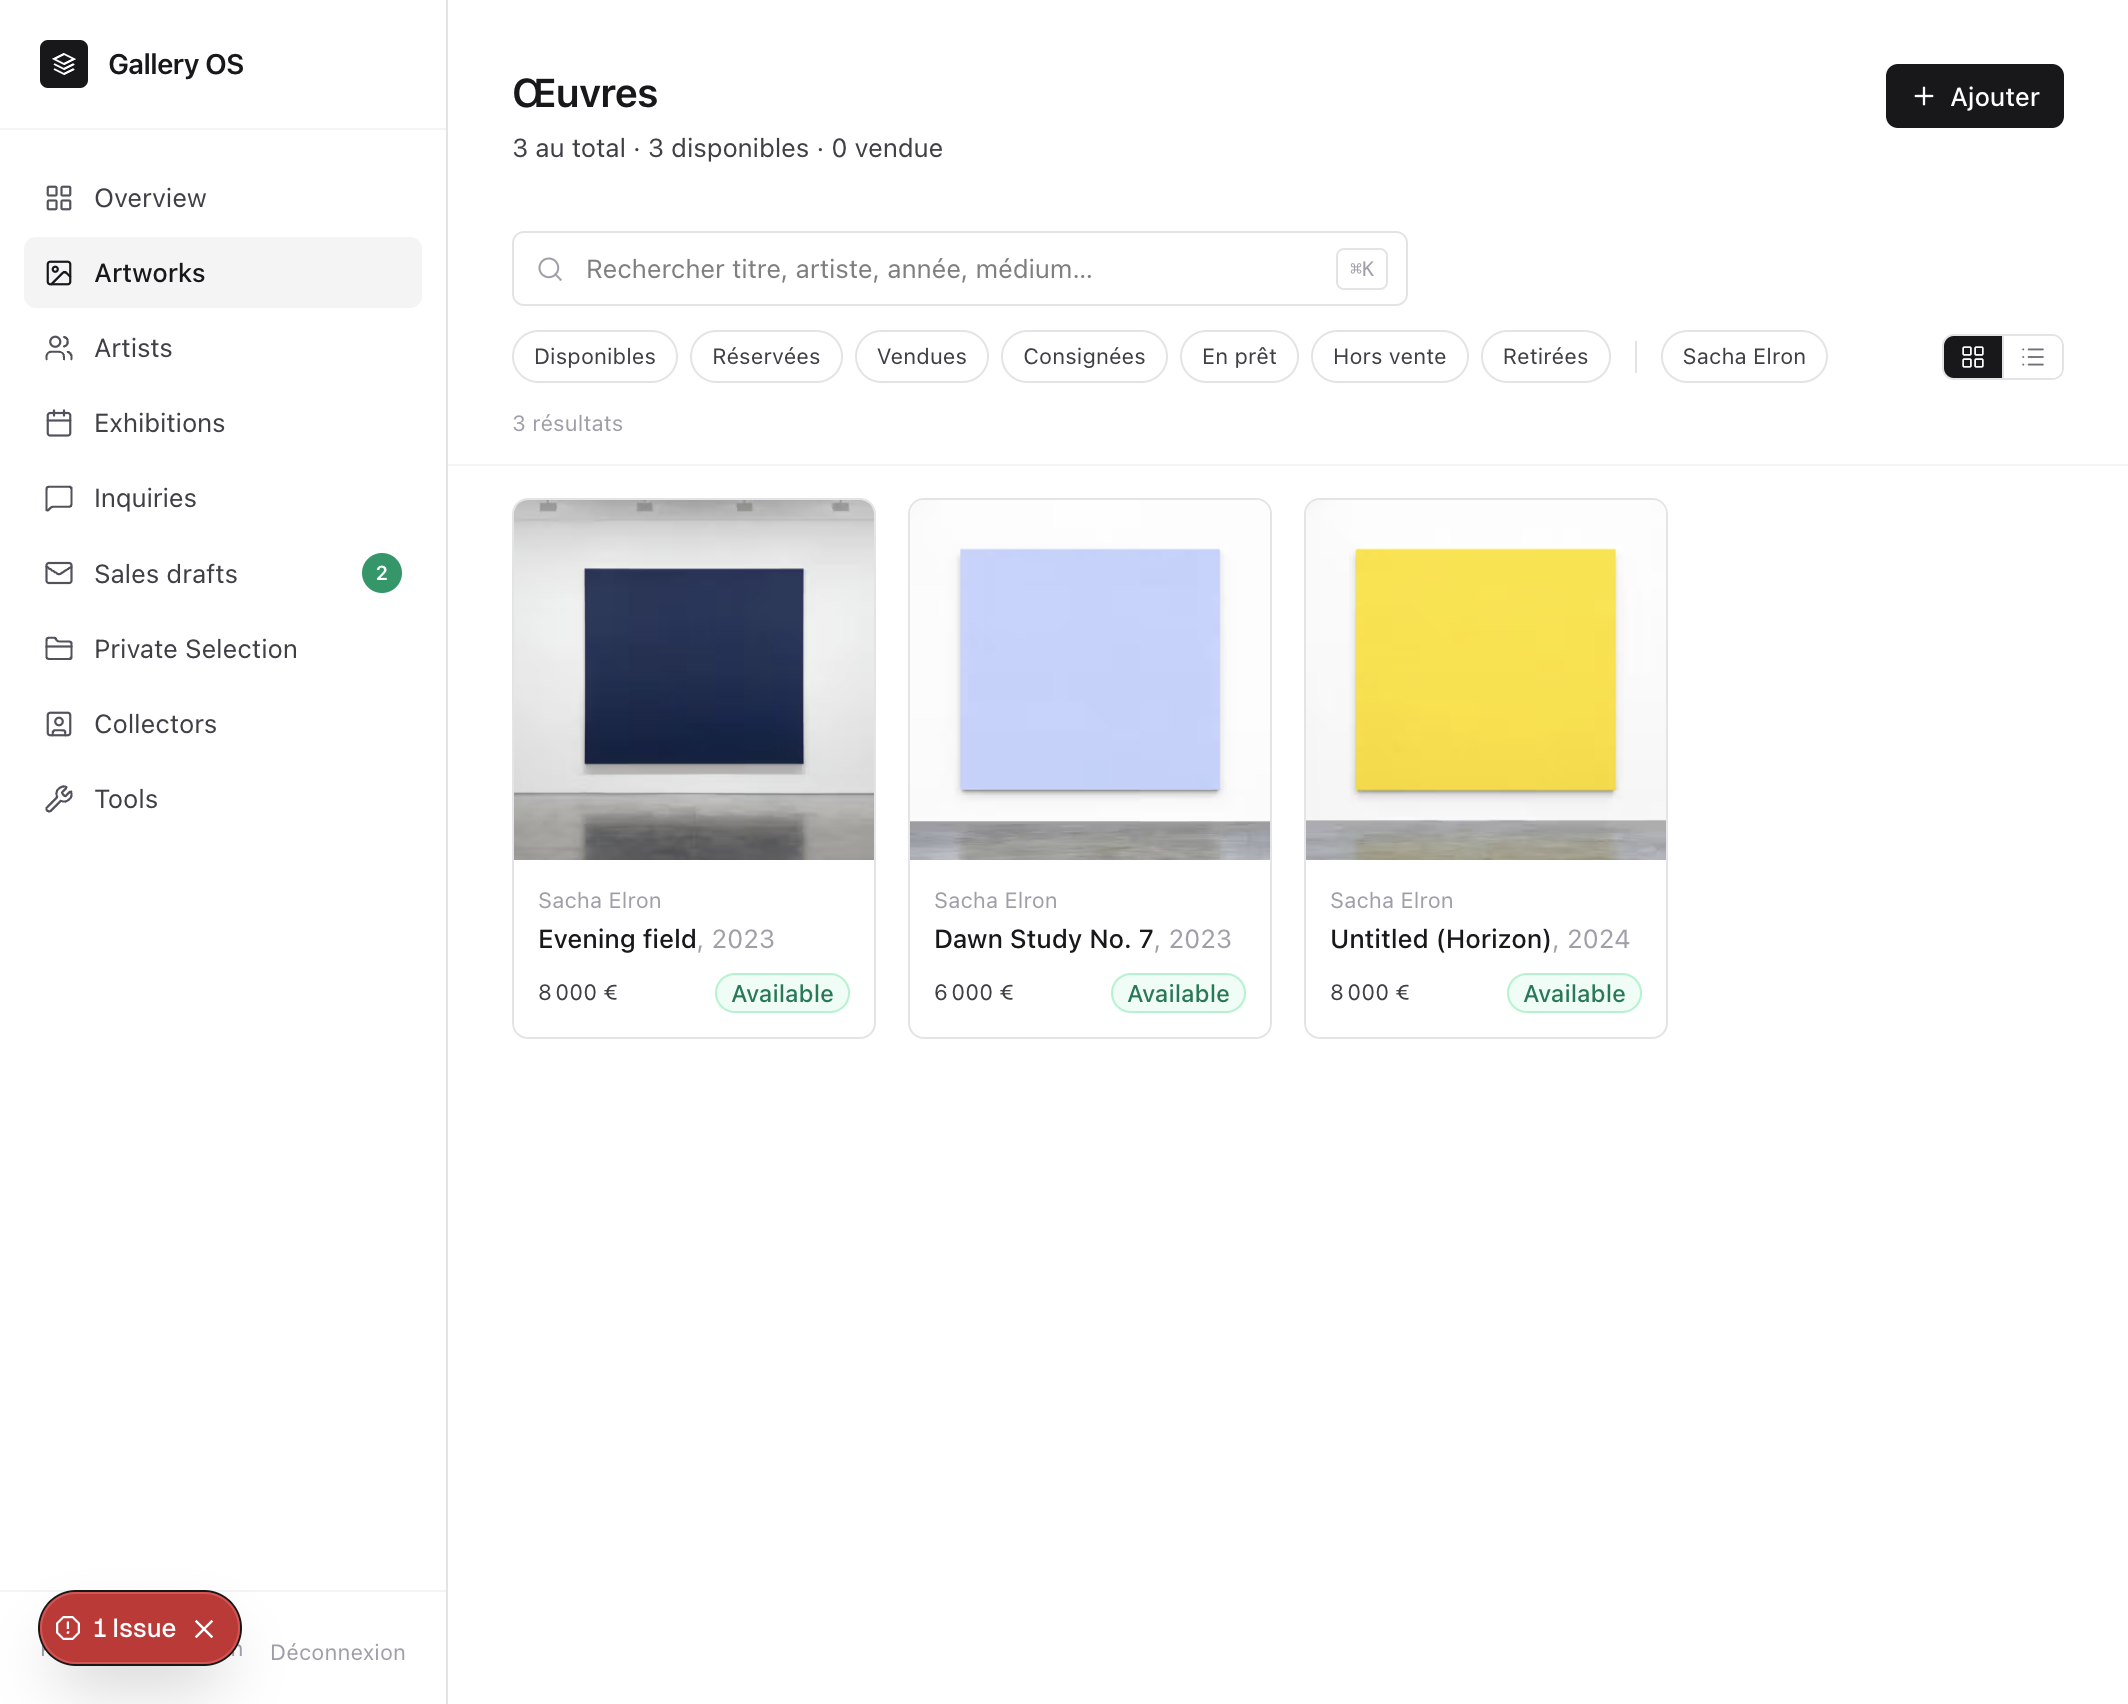
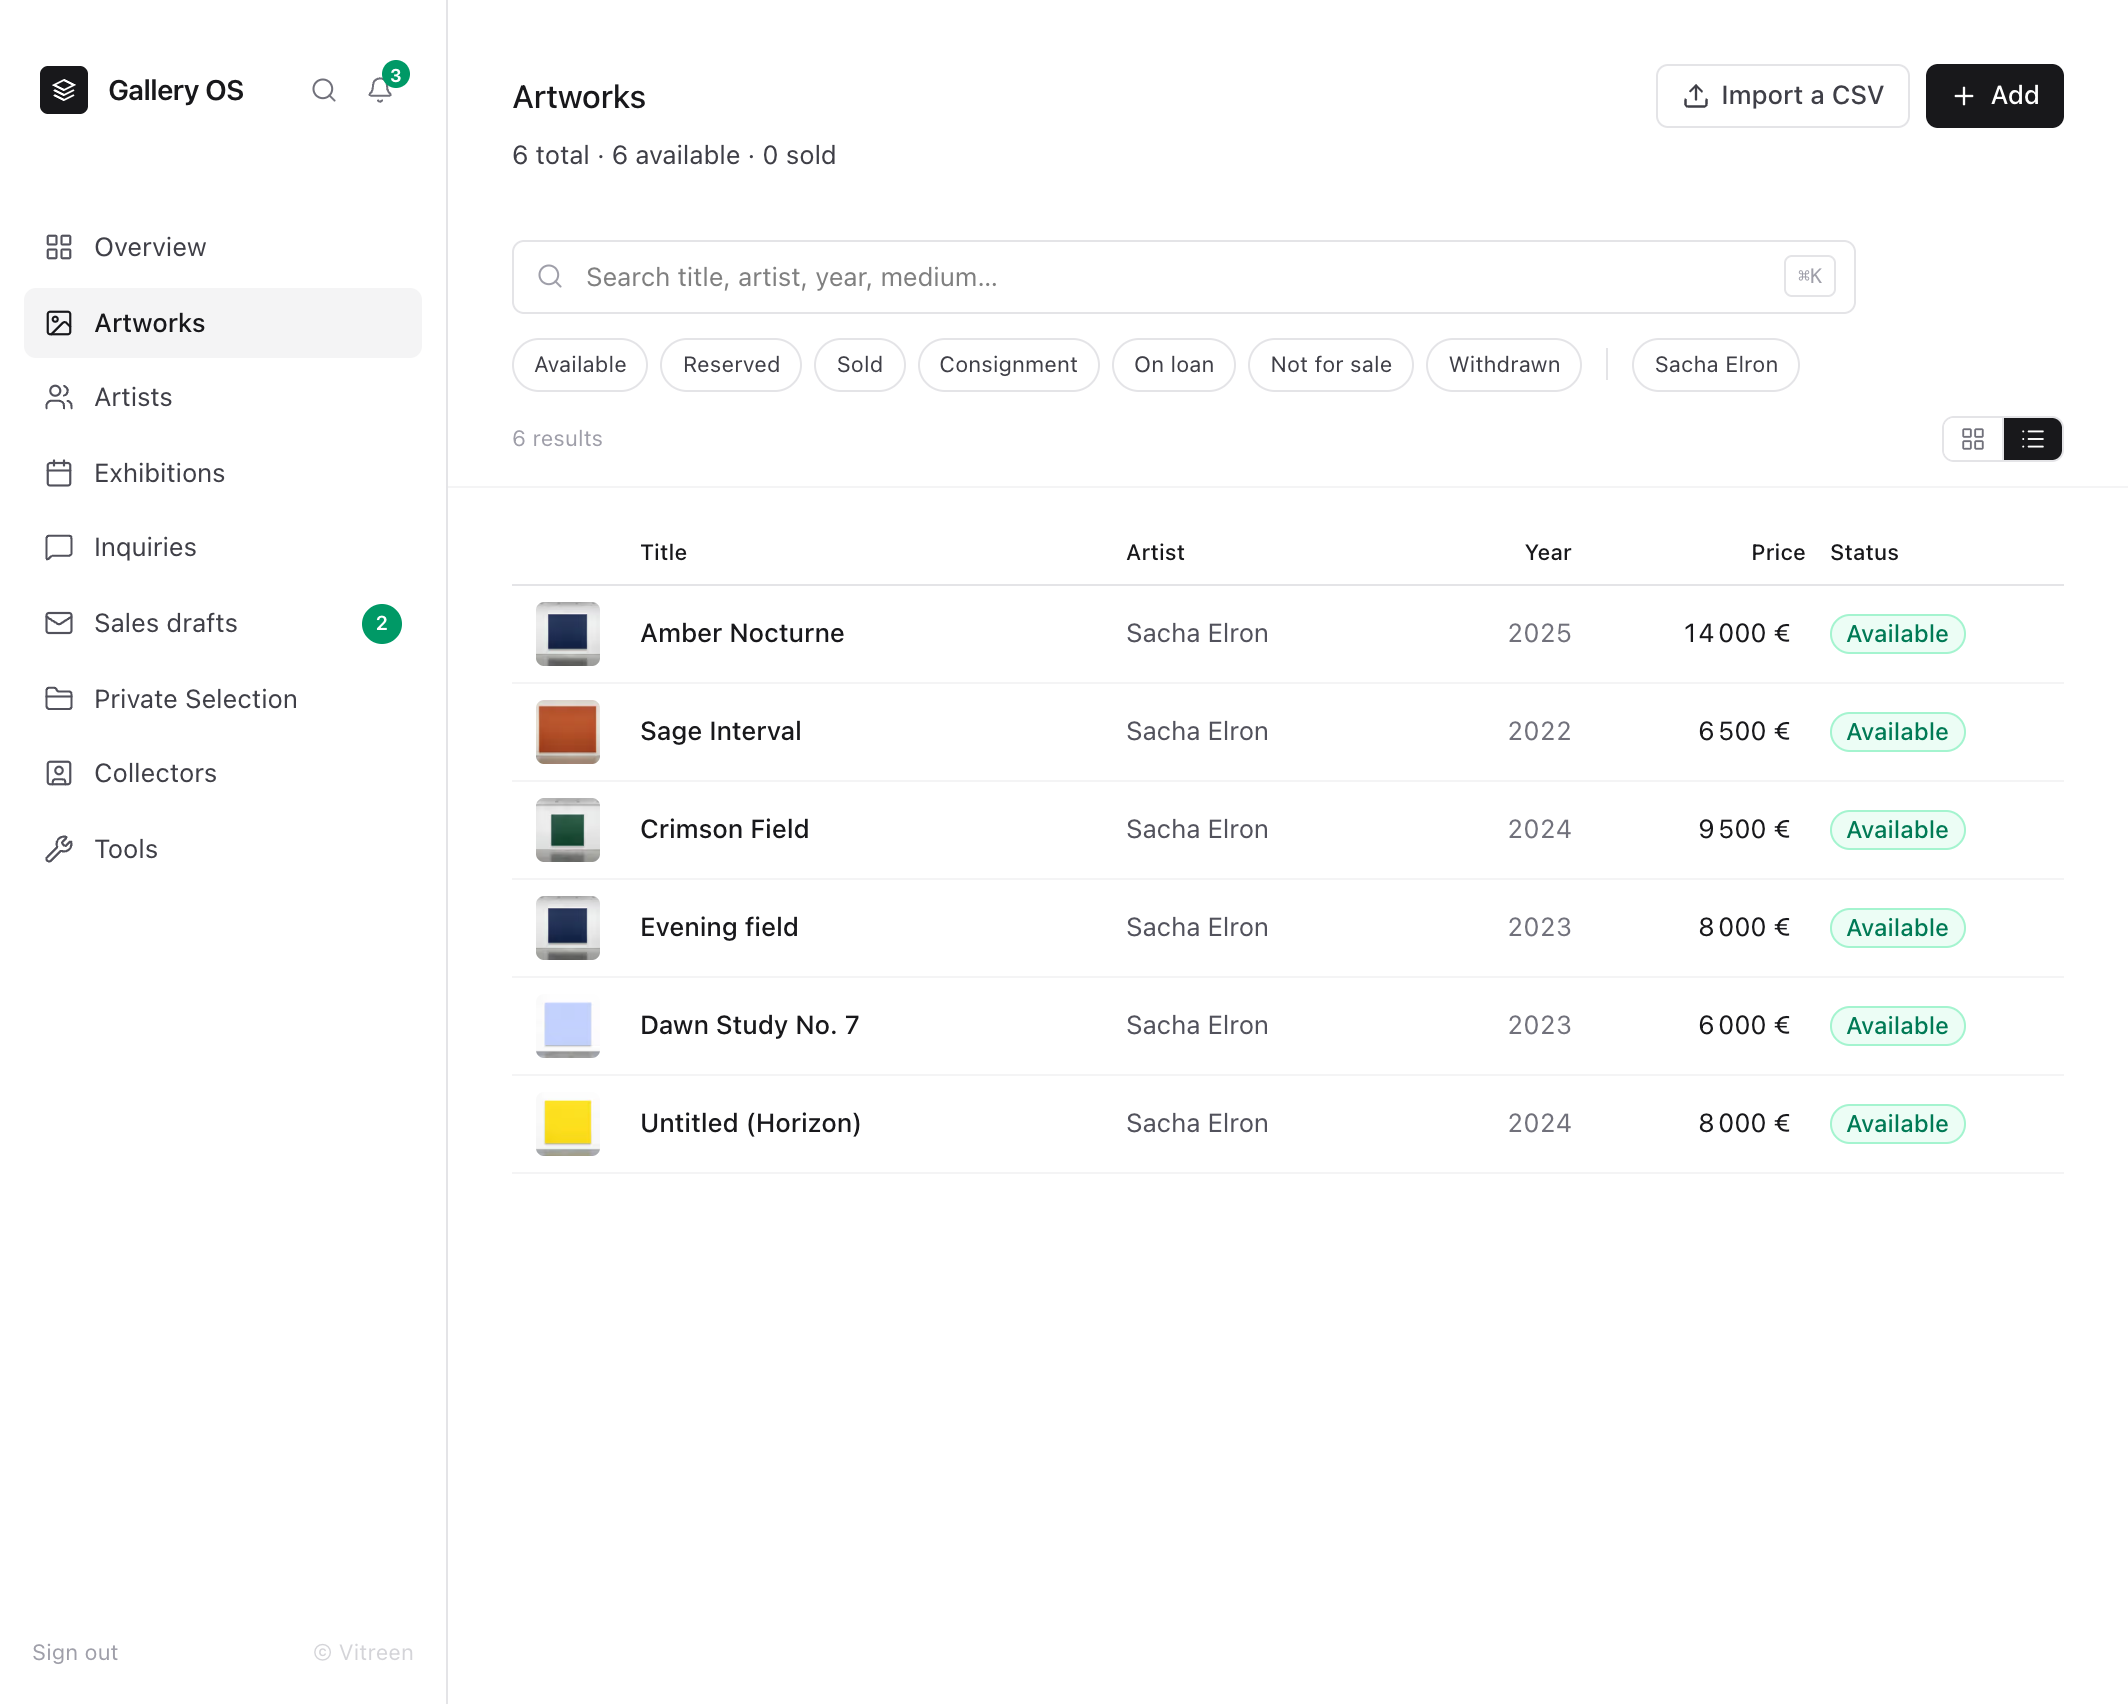
Move Artworks & Sales drafts into top carousel, trim deck and carousel
- Add Sales drafts to the showcase carousel (Artworks already present)
- Reduce mockup deck to Sélections privées + Couche site web
- Refresh Artworks/Sales drafts/Private Selection with English app captures
- Add stroke to carousel cards
- Drop Viewing Room Studio and Gmail from the carousel

diff --git a/src/projects.js b/src/projects.js
@@ -679,9 +679,8 @@ export const projects = [
       wireframes: [
         { title: "Overview — le tableau de bord quotidien", src: "/vitreen/gallery-os-overview.png", type: "image", landscape: true },
         { title: "Artworks — l'inventaire partagé", src: "/vitreen/gallery-os-artworks.png", type: "image", landscape: true },
+        { title: "Sales drafts — structurer les réponses aux inquiries", src: "/vitreen/gallery-os-sales-drafts.png", type: "image", landscape: true },
         { title: "Private Selection — composer pour un collectionneur", src: "/vitreen/gallery-os-private-selection.png", type: "image", landscape: true },
-        { title: "Viewing Room Studio — l'éditeur canvas-first", src: "/vitreen/gallery-os-viewing-room-studio.png", type: "image", landscape: true },
-        { title: "Gmail — insérer une œuvre depuis la boîte mail", src: "/vitreen/gallery-os-gmail.png", type: "image", landscape: true },
       ],
     },
     caseStudy: {
@@ -740,24 +739,12 @@ export const projects = [
             mockups: [
               {
                 step: "01",
-                title: "Colonne œuvre",
-                caption: "Une structure d'inventaire partagée pour les informations, statuts, prix et documents. La même fiche peut alimenter chaque sortie.",
-                media: "/vitreen/gallery-os-artworks.png",
-              },
-              {
-                step: "02",
                 title: "Sélections privées",
                 caption: "La galerie prépare un ensemble ciblé d'œuvres pour un collectionneur et le partage sans reconstruire le contenu manuellement.",
                 media: "/vitreen/gallery-os-private-selection.png",
               },
               {
-                step: "03",
-                title: "Communication collectionneur",
-                caption: "Les inquiries entrantes deviennent un travail structuré : œuvres disponibles, contexte et brouillon de réponse restent connectés.",
-                media: "/vitreen/gallery-os-sales-drafts.png",
-              },
-              {
-                step: "04",
+                step: "02",
                 title: "Couche site web",
                 caption: "Les sélections peuvent devenir des viewing rooms ou des pages collectionneur sans se détacher de l'inventaire source.",
                 media: "/vitreen/gallery-os-viewing-room-studio.png",

diff --git a/styles.css b/styles.css
@@ -2136,6 +2136,7 @@ a {
   border-radius: 16px;
   overflow: hidden;
   background: var(--color-bg-elevated);
+  border: 1px solid rgba(23, 23, 22, 0.1);
   scroll-snap-align: center;
 }
 
